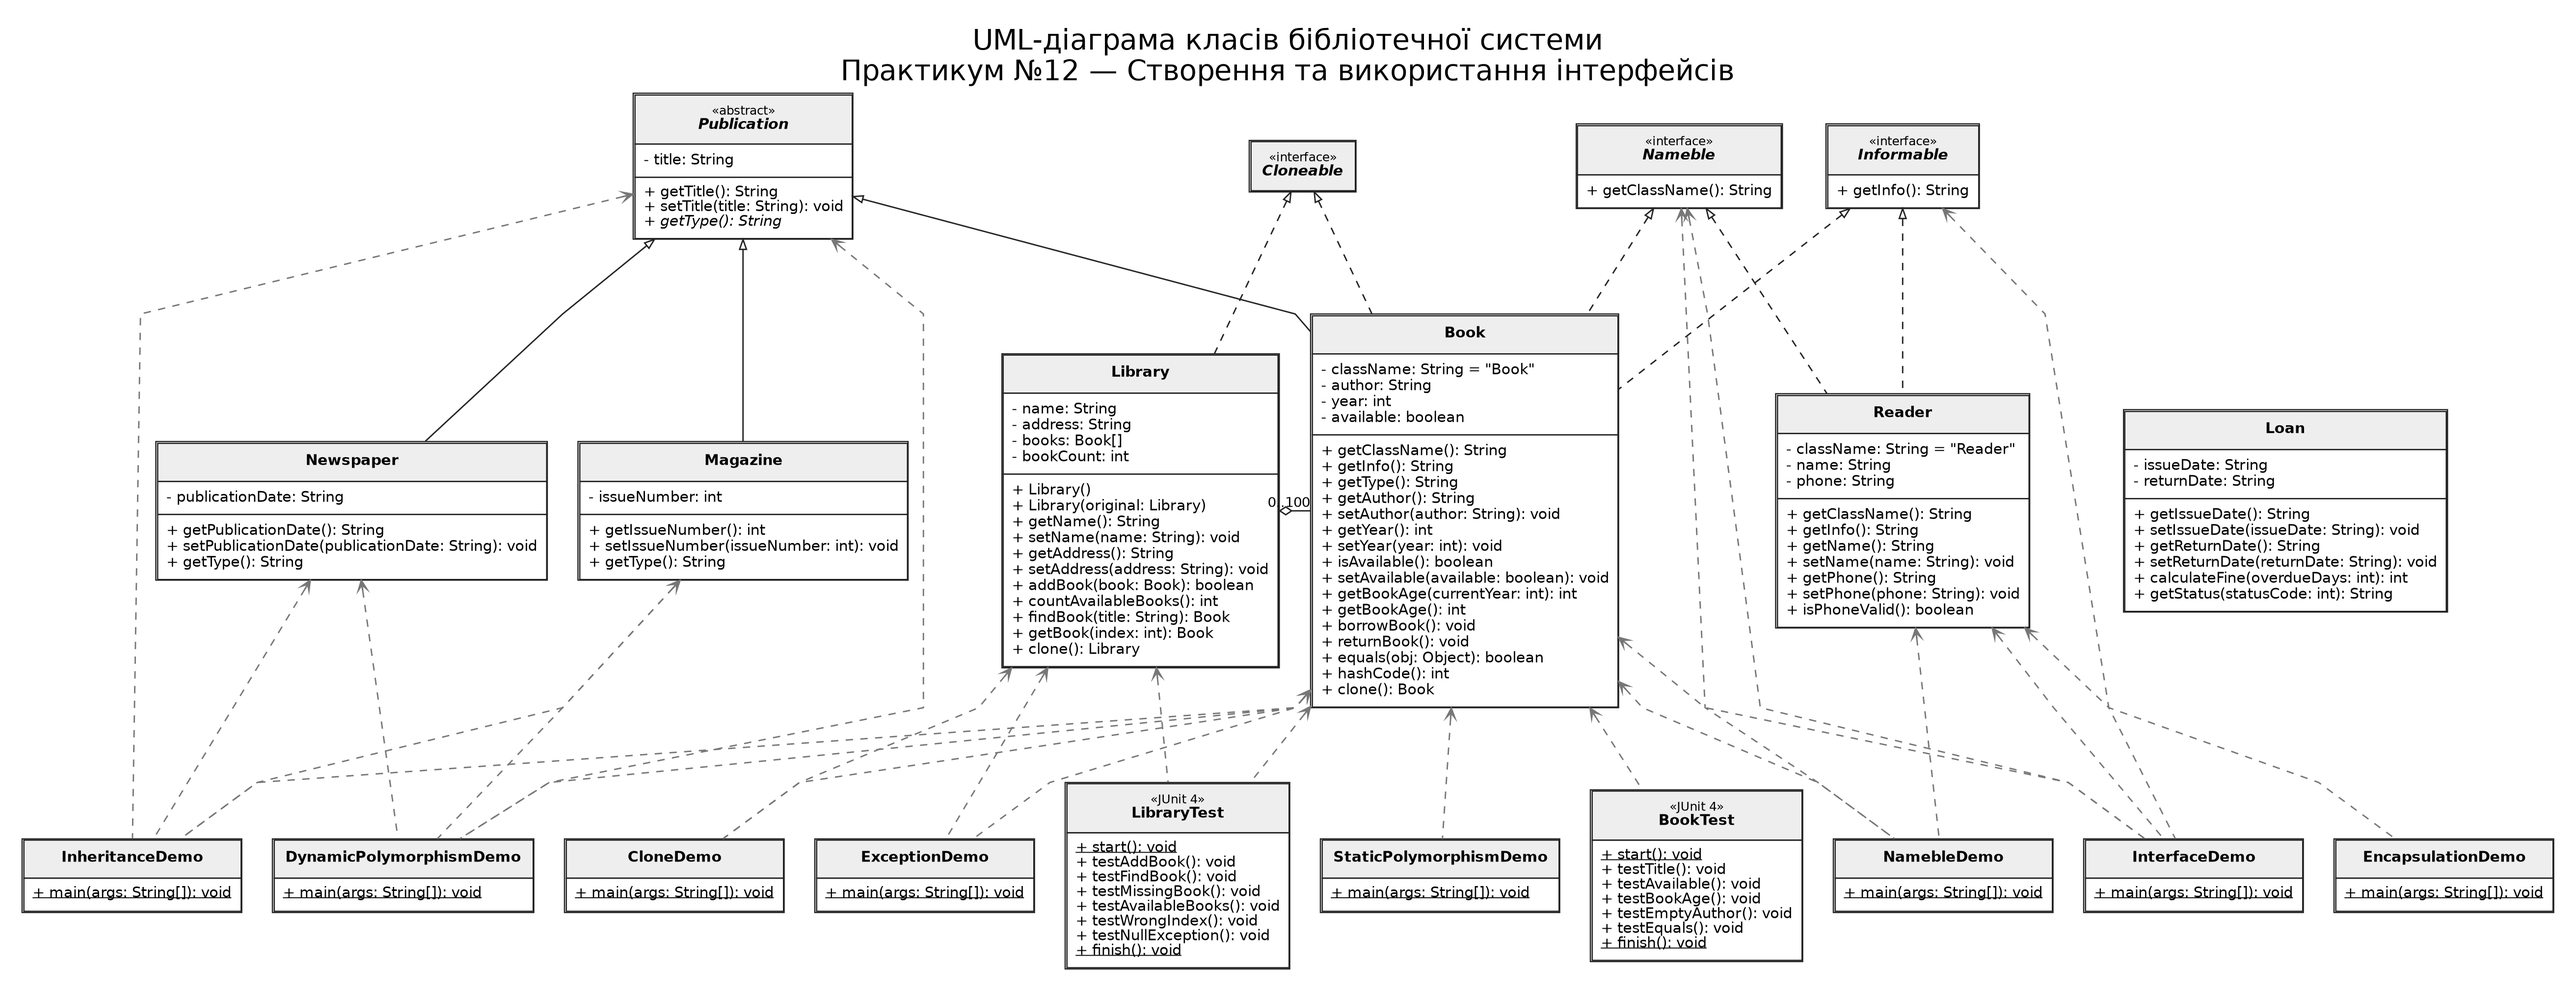
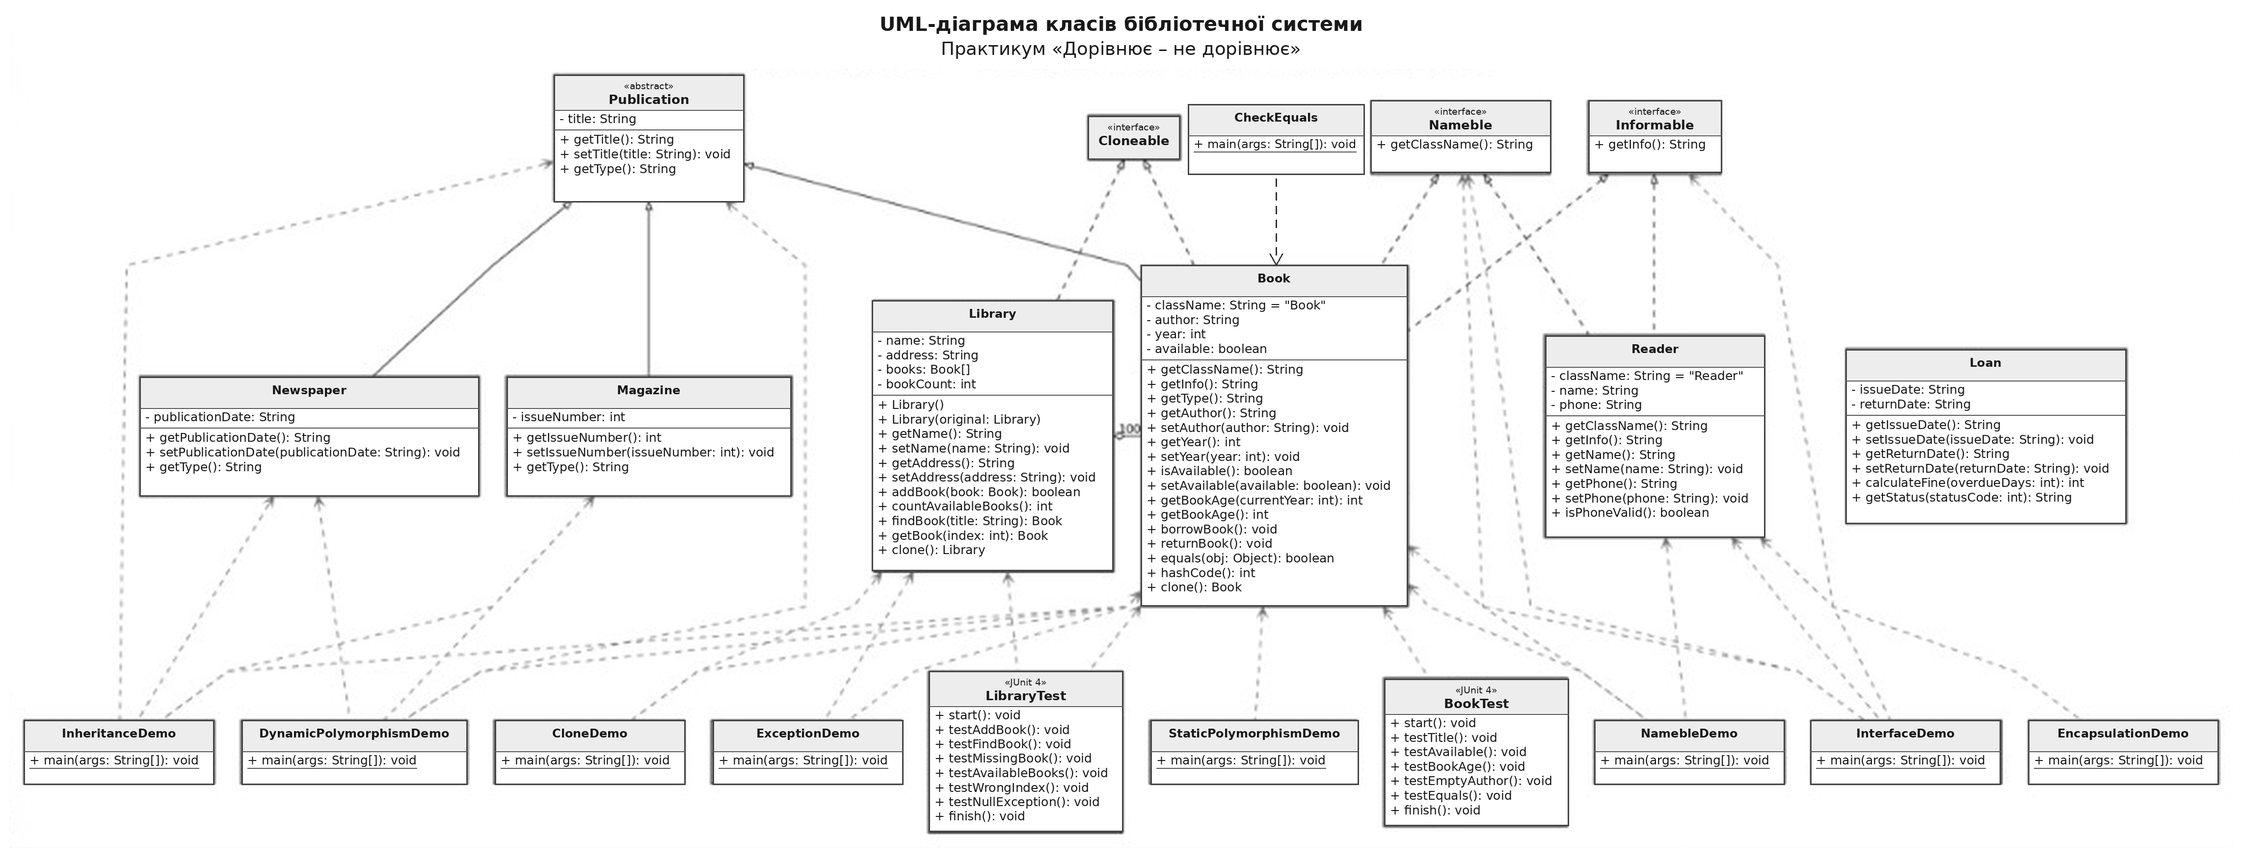
Дорівнює - не дорівнює. Оновлення UML-діаграми

diff --git a/src/library/CheckEquals.java b/src/library/CheckEquals.java
@@ -1,0 +1,31 @@
+package library;
+
+public class CheckEquals {
+
+    public static void main(String[] args) {
+
+        Book book1 = new Book();
+        book1.setAuthor("Тарас Шевченко");
+        book1.setYear(2020);
+        book1.setAvailable(true);
+
+        Book book2 = new Book();
+        book2.setAuthor("Тарас Шевченко");
+        book2.setYear(2020);
+        book2.setAvailable(true);
+
+        if (book1.equals(book2)) {
+            System.out.println("Дорівнює");
+        } else {
+            System.out.println("Не дорівнює");
+        }
+
+        book2.setYear(2025);
+
+        if (book1.equals(book2)) {
+            System.out.println("Дорівнює");
+        } else {
+            System.out.println("Не дорівнює");
+        }
+    }
+}
